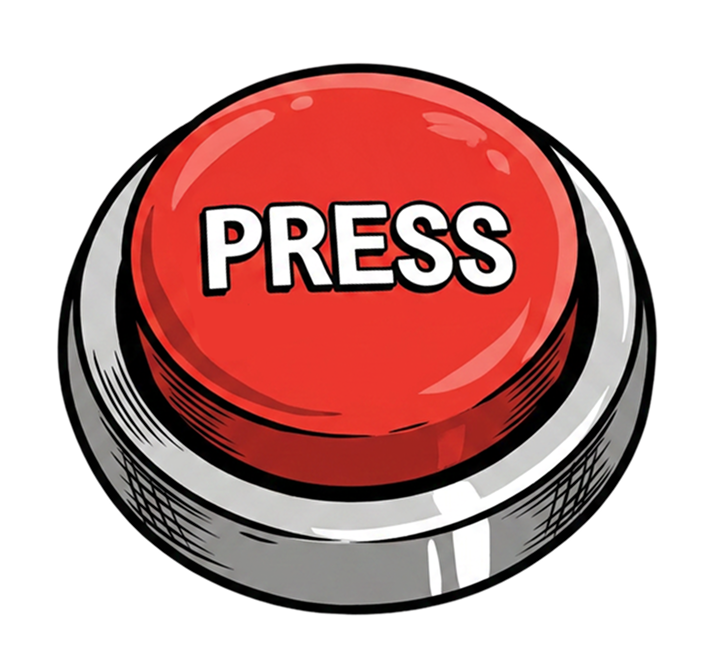
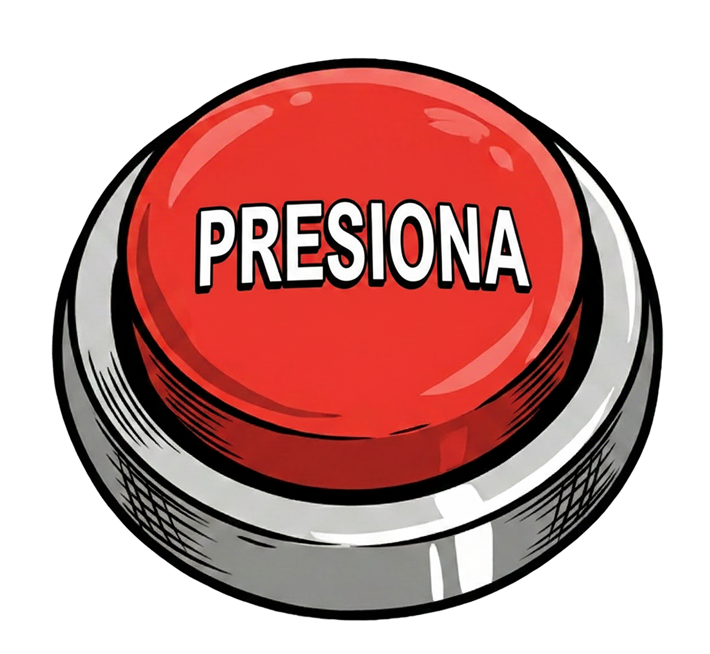
changing for SP

Changed region(s): [[0.062, 0.0917, 0.9606, 0.948]]

diff --git a/index.html b/index.html
@@ -3,7 +3,7 @@
 <head>
   <meta charset="UTF-8">
   <meta name="viewport" content="width=device-width, initial-scale=1.0, maximum-scale=1.0, user-scalable=no, viewport-fit=cover">
-  <title>PlayableAd_13600</title>
+  <title>PlayableAd_13600_SP</title>
   <style>
     body, html { 
       margin: 0; padding: 0; 
@@ -151,7 +151,9 @@
       color: #fff;
       text-transform: uppercase;
       letter-spacing: 0.5px;
-      white-space: nowrap;
+      white-space: normal;
+      word-wrap: break-word;
+      max-width: 90%;
       filter: drop-shadow(0px 4px 6px rgba(0,0,0,0.8));
       -webkit-text-stroke: 1.5px #000; 
       opacity: 0;
@@ -324,9 +326,9 @@
   </div>
 
   <audio id="bgMusic" src="assets/bg_music.m4a" loop></audio>
-  <audio id="shout1" src="assets/shout1.m4a"></audio>
-  <audio id="shout2" src="assets/shout2.m4a"></audio>
-  <audio id="shout3" src="assets/shout3.m4a"></audio>
+  <audio id="shout1" src="assets/shout1.mp3"></audio>
+  <audio id="shout2" src="assets/shout2.mp3"></audio>
+  <audio id="shout3" src="assets/shout3.mp3"></audio>
   <audio id="finalShout" src="assets/final.m4a"></audio>
   <audio id="buttonSound" src="assets/button.m4a"></audio>
 
@@ -350,9 +352,9 @@
     const buttonSound = document.getElementById('buttonSound');
 
     const subtitleTexts = [
-      "<span class='highlight'>Don't</span> press that button!", 
-      "Wait... <span class='highlight'>no,</span> don't press it!", 
-      "Please... <span class='highlight'>don't</span> press it!" 
+      "<span class='highlight'>¡No presiones</span>  ese botón!", 
+      "Espera...  <span class='highlight'>no</span> , ¡no lo presiones!", 
+      "Por favor... ¡ <span class='highlight'>no lo presiones</span> !" 
     ];
 
     let clickCount = 0; 
@@ -484,7 +486,7 @@
     });
 
     goBtn.addEventListener('click', () => {
-      window.location.href = "https://honeytoon.com/comic-video/teach-me-first?n=1";
+      window.location.href = "https://honeytoon.com/es/comic-video/ensename-primero";
     });
   </script>
 </body>